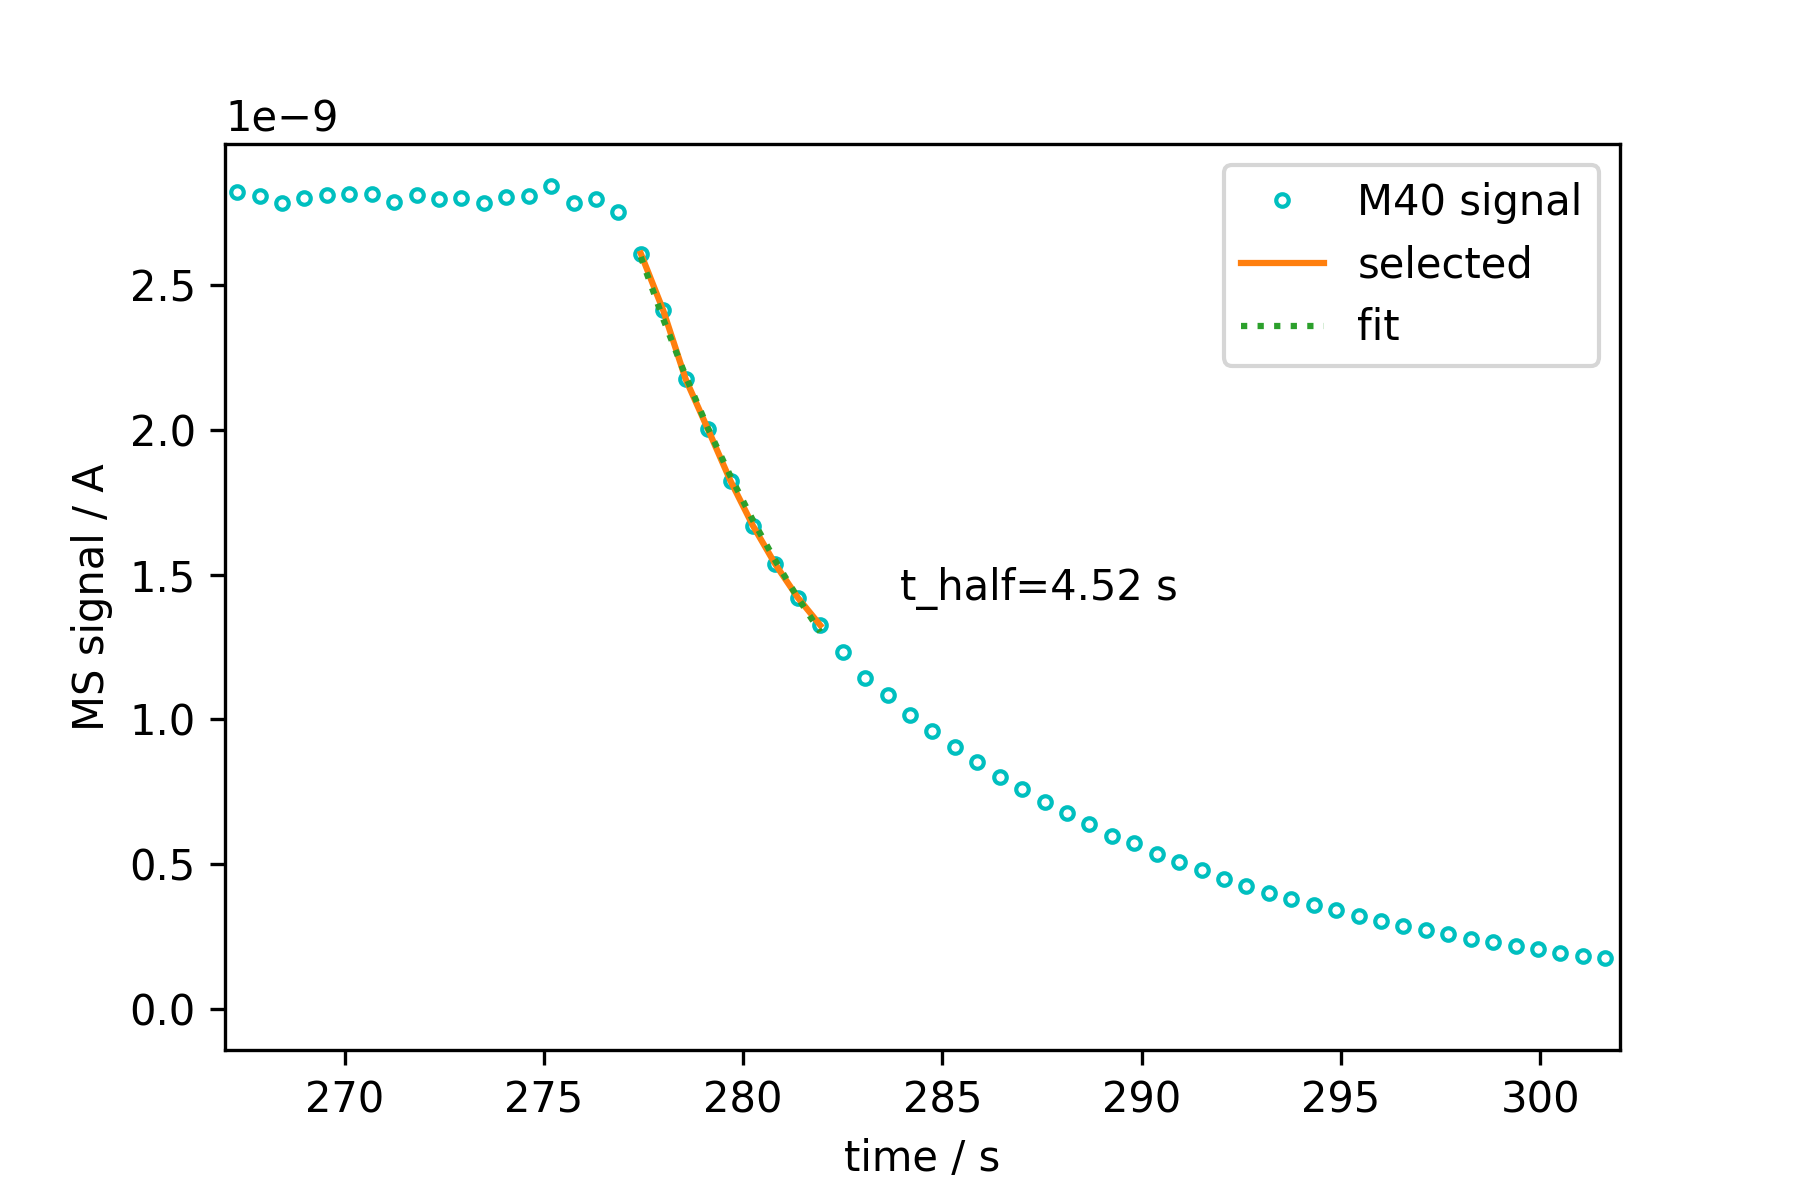
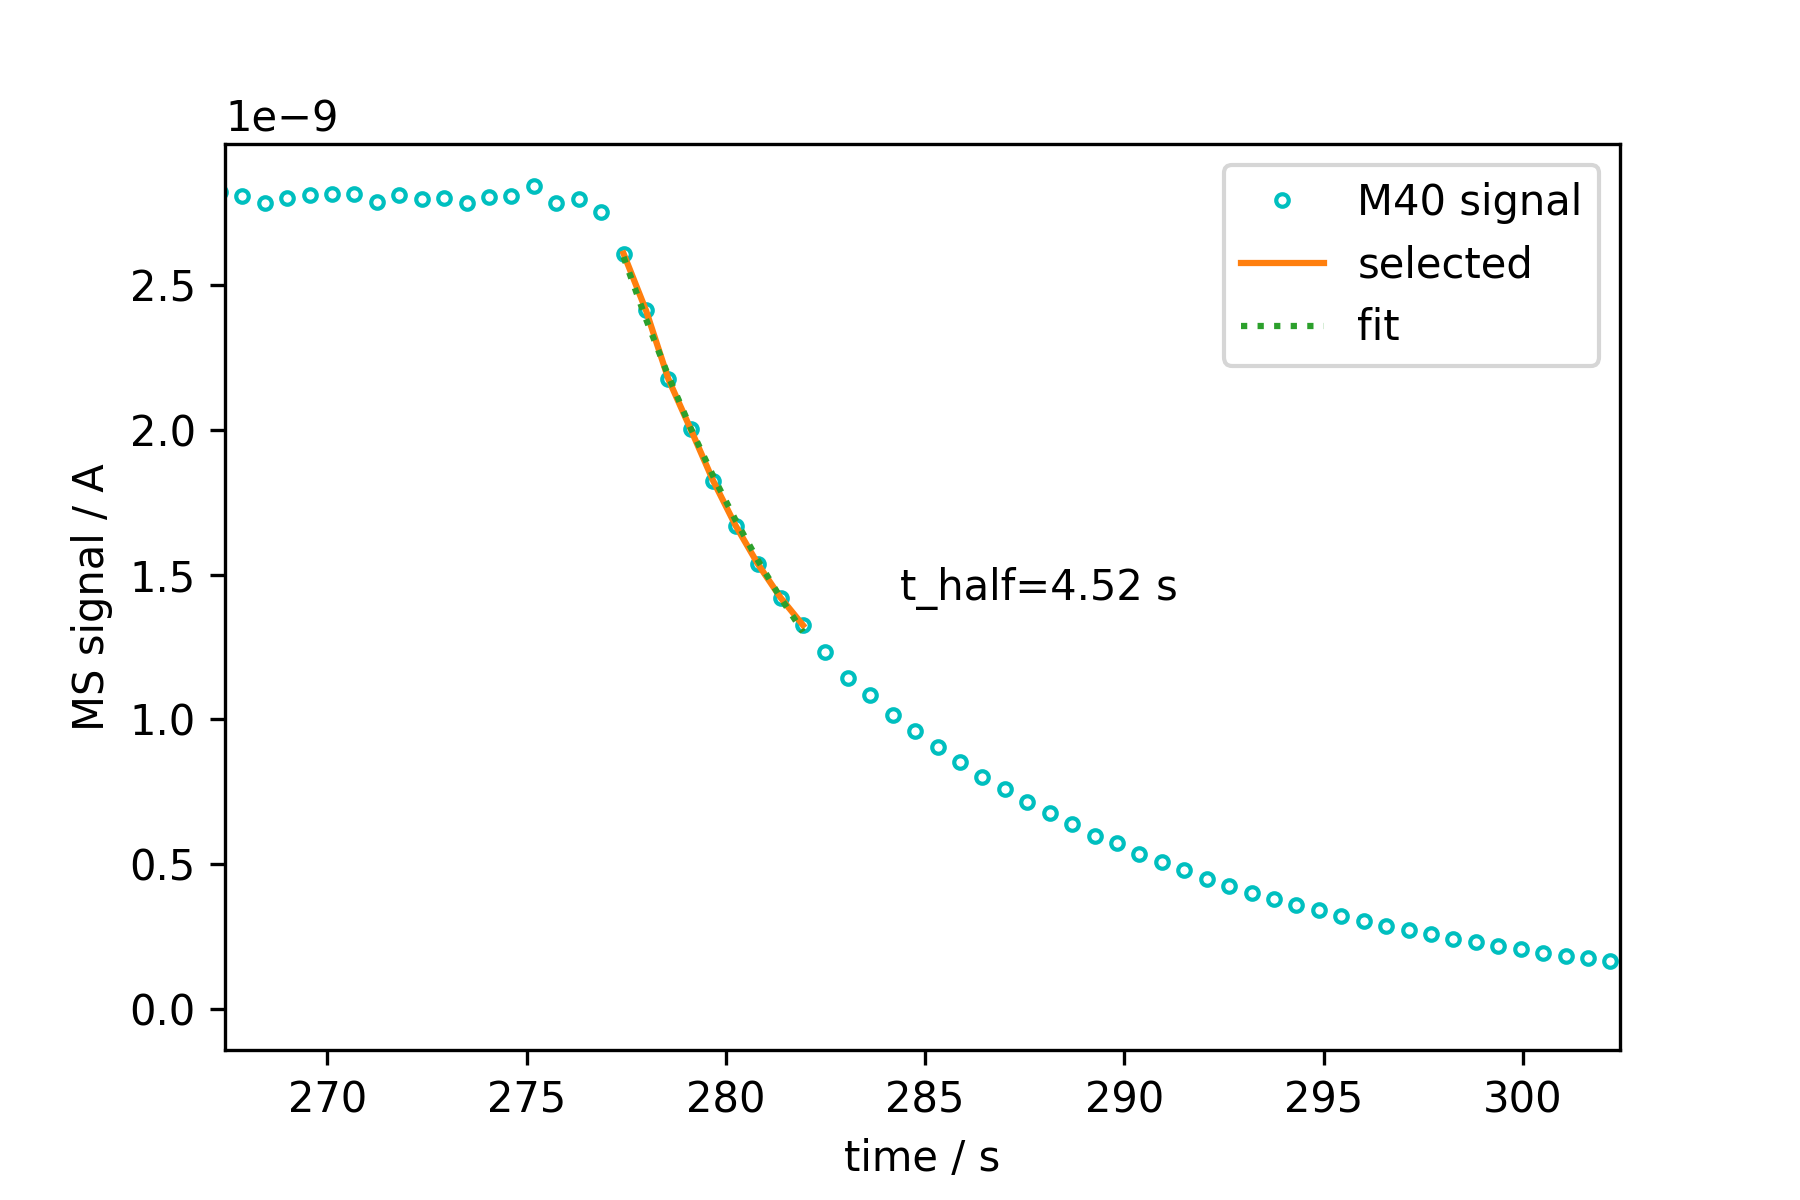
Add function to find start of decay for all mass traces

diff --git a/Benchmarking/RnD1system_benchmarking_analysis.py b/Benchmarking/RnD1system_benchmarking_analysis.py
@@ -79,6 +79,39 @@ def exp_fit_signal(data, signal, tspan, color=None):
         print(signal + " t_half at " + str(time) + "s = " + str(t_half_sig))
         
         return t_half_sig, (fig, ax1)
+    
+def find_decay_edge(data, signal, gradient_cutoff):
+        """
+        Function to find time where a mass signal starts decaying 
+        Parameters
+        ----------
+        data : ECMSMeasurement object (probably ECMeasurement or MSMeasurement 
+                                       will also work)
+        signal : which part of the ECMSMeasurement object to fit, i.e. column 
+        that will then be selected using ECMSMeasurement.grab(signal)
+        
+        gradient_cutoff: defines gradient under which mass signal is "decreasing drastically", 
+        depends on the absolute value of the signal -> needs to be chosen individually (a 
+        good first guess is -1*((order of magnitude of signal)-1))
+        
+        Returns
+        -------
+        t_list: list of times where decay starts
+        """
+        t, m = data.grab(signal)
+        
+        # now select the timespan where we want to fit the decay curve
+        # the way below is probably not the smartest or most pythonic way, but
+        # it seems to work for this type of data
+        # select the range where the mass signal is decreasing drastically (number chosen is a bit arbitraryly)
+        mask1 = np.where(np.gradient(m)<gradient_cutoff)
+        # select the range where there is a step in the time because values are removed 
+        # by the previous mask
+        mask2 = np.where(np.gradient(mask1[0])>1)
+        t_list = [t[mask1][0]] + t[mask1][mask2].tolist()
+        t_list_clean = t_list[0::2] # necessary because the second mask find 2 times for each step
+        
+        return t_list_clean
 
 # define a common file name for all generated data files and plots
 exp_name = "RnD1system_benchmark"
@@ -114,36 +147,17 @@ if True: # plot the CV part
         cvs_ec_vs_pot = axes_c.get_figure()
         cvs_ec_vs_pot.savefig("./" + exp_name + "CV_vs_potential_EC_biologic.png")
     
-    
-    
-    
 if True: # plot and fit the HER QC
     her = full_data.cut(tspan=[1500,4000])
     her.tstamp += 1589
     her.plot_measurement(tspan=[0,3000])
-    
-    tm2_her, m2_her = her.grab("M2")
-    i_her = her.grab_for_t("raw current / [mA]", tm2_her)
-    
-    # now select the timespan where we want to fit the decay curve
-    # the way below is probably not the smartest or most pythonic way, but hopefully
-    # it will work for this type of data
-    # select the range where the m2 signal is decreasing drastically (number chosen is a bit arbitrary)
-    mask1 = np.where(np.gradient(m2_her)<-1E-11)
-    # select the range where there is a step in the time because values are removed 
-    # by the previous mask
-    mask2 = np.where(np.gradient(mask1[0])>1)
-    
-    t_list = [tm2_her[mask1][0]] + tm2_her[mask1][mask2].tolist()
-    t_list_clean = t_list[0::2]    
-    t_half_h2_list = []    
     signal = "M2"
-    
+    t_list_clean = find_decay_edge(her, signal, gradient_cutoff=-1E-11)
+    t_half_h2_list = []        
     for time in t_list_clean:
         t_half_h2, fig = exp_fit_signal(her, signal=signal, tspan=[time, time+5])
         fig[0].savefig("./" + exp_name + "_" + signal + f"decay_at_{time:.0f}s.png")
         t_half_h2_list.append(t_half_h2)
-        
     np.savetxt("./" + exp_name + "_" + signal + "_decay_times.csv", t_half_h2_list,
            delimiter=", ", fmt='%s')
 
@@ -152,20 +166,18 @@ if True: # plot and fit the gas exchange QC
     gas_exchange = first_ms.cut(tspan=[5250, 6200])
     gas_exchange.tstamp += 5250
     gas_exchange.plot_measurement()
-    
-    times_ar = [[277,282],[597,602]]
-    times_he = [[123,128],[447,452]]
+    times_ar = find_decay_edge(gas_exchange, "M40", gradient_cutoff=-1E-10)
+    times_he = find_decay_edge(gas_exchange, "M4", gradient_cutoff=-1E-10)
     t_half_list = []
-    
     for time in times_ar:
-        t_half_ar, fig = exp_fit_signal(gas_exchange, signal="M40", tspan=[time[0], time[1]])
-        fig[0].savefig("./" + exp_name + f"_M40_decay_at_{time[0]:.0f}s.png")
+        t_half_ar, fig = exp_fit_signal(gas_exchange, signal="M40", tspan=[time, time+5])
+        fig[0].savefig("./" + exp_name + f"_M40_decay_at_{time:.0f}s.png")
         t_half_list.append(("M40", t_half_ar))
     for time in times_he:
-        t_half_he, fig = exp_fit_signal(gas_exchange, signal="M4", tspan=[time[0], time[1]])
-        fig[0].savefig("./" + exp_name + f"_M4_decay_at_{time[0]:.0f}s.png")
+        t_half_he, fig = exp_fit_signal(gas_exchange, signal="M4", tspan=[time, time+5])
+        fig[0].savefig("./" + exp_name + f"_M4_decay_at_{time:.0f}s.png")
         t_half_list.append(("M4", t_half_he))
-        
     np.savetxt("./" + exp_name + "_gas_exchange_decay_times.csv", t_half_list,
            delimiter =", ", fmt='%s')
+    
     
